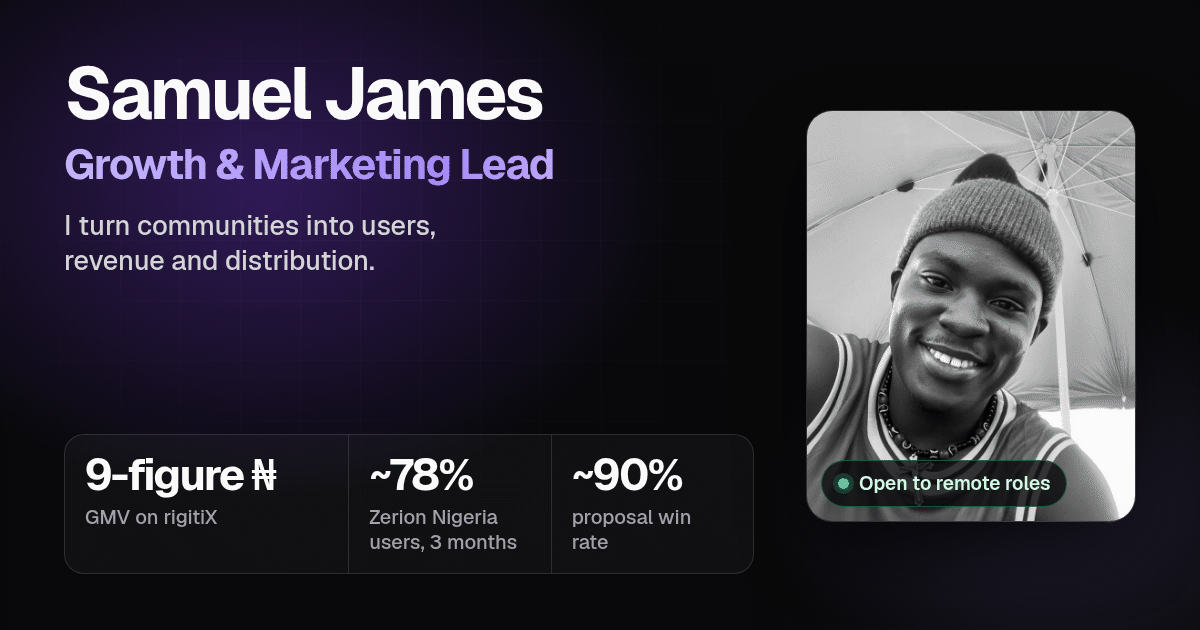
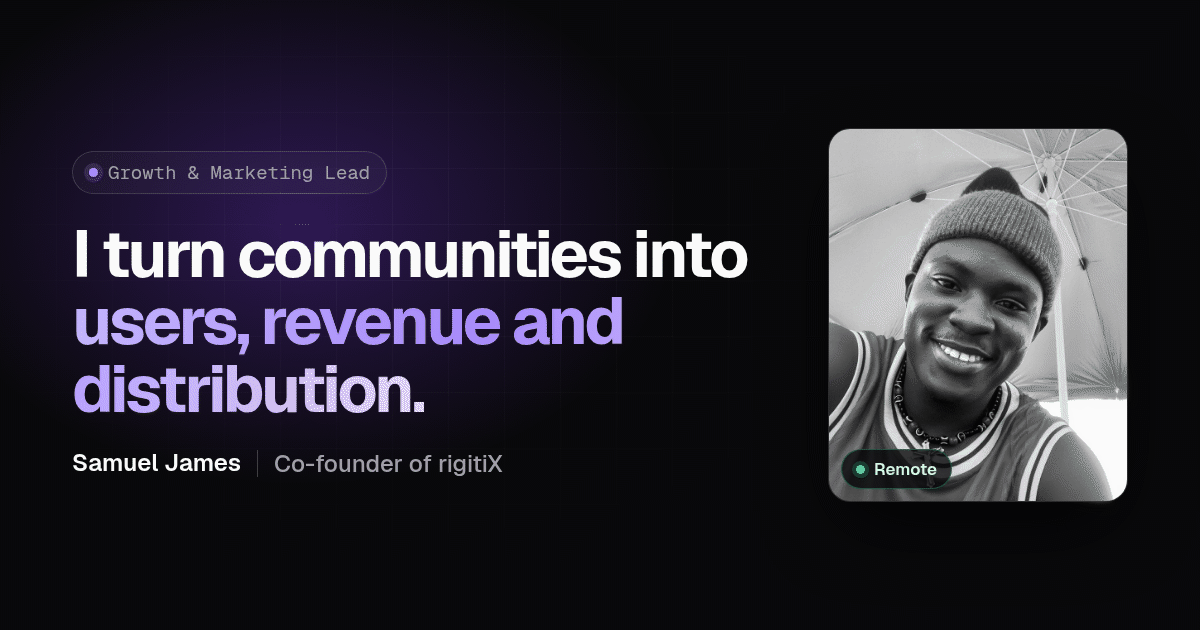
Share card: back to headline design, no location, name once, Remote chip

diff --git a/index.html b/index.html
@@ -18,14 +18,14 @@
 <meta property="og:image" content="https://samueluj23.github.io/assets/og.png">
 <meta property="og:image:width" content="1200">
 <meta property="og:image:height" content="630">
-<meta property="og:image:alt" content="Samuel James, Growth &amp; Marketing Lead. I turn communities into users, revenue and distribution. 9-figure ₦ GMV on rigitiX, ~78% Zerion Nigeria user growth in 3 months, ~90% proposal win rate. Open to remote roles.">
+<meta property="og:image:alt" content="Growth &amp; Marketing Lead. I turn communities into users, revenue and distribution. Samuel James, Co-founder of rigitiX, with his photo and a Remote label.">
 <meta name="twitter:card" content="summary_large_image">
 <meta name="twitter:site" content="@0xsamuelj">
 <meta name="twitter:creator" content="@0xsamuelj">
 <meta name="twitter:title" content="Samuel James, Growth &amp; Marketing Lead">
 <meta name="twitter:description" content="Samuel James is a Growth &amp; Marketing Lead: community-led growth, partnerships and GTM across consumer tech, fintech and wallets, AI and Web3. Co-founder of rigitiX.">
 <meta name="twitter:image" content="https://samueluj23.github.io/assets/og.png">
-<meta name="twitter:image:alt" content="Samuel James, Growth &amp; Marketing Lead, with three results and his photo">
+<meta name="twitter:image:alt" content="Samuel James, Growth &amp; Marketing Lead and Co-founder of rigitiX: I turn communities into users, revenue and distribution.">
 <script type="application/ld+json">{"@context": "https://schema.org", "@type": "Person", "name": "Samuel James", "url": "https://samueluj23.github.io/", "image": "https://samueluj23.github.io/assets/sam.jpg", "jobTitle": "Growth & Marketing Lead", "email": "mailto:samueluj23@gmail.com", "address": {"@type": "PostalAddress", "addressLocality": "Uyo", "addressCountry": "NG"}, "worksFor": {"@type": "Organization", "name": "rigitiX", "url": "https://rigitix.com"}, "alumniOf": {"@type": "CollegeOrUniversity", "name": "University of Uyo"}, "sameAs": ["https://x.com/0xsamuelj", "https://linkedin.com/in/0xsamj", "https://t.me/jamessamuelu", "https://github.com/samueluj23"]}</script>
 <link rel="preconnect" href="https://fonts.googleapis.com">
 <link rel="preconnect" href="https://fonts.gstatic.com" crossorigin>
